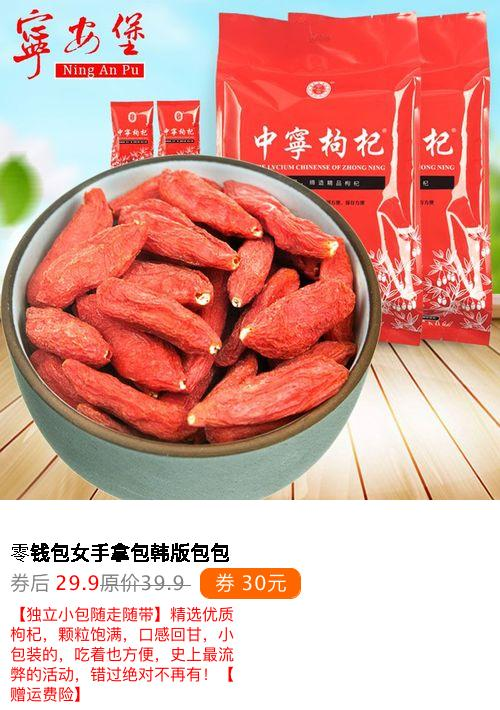
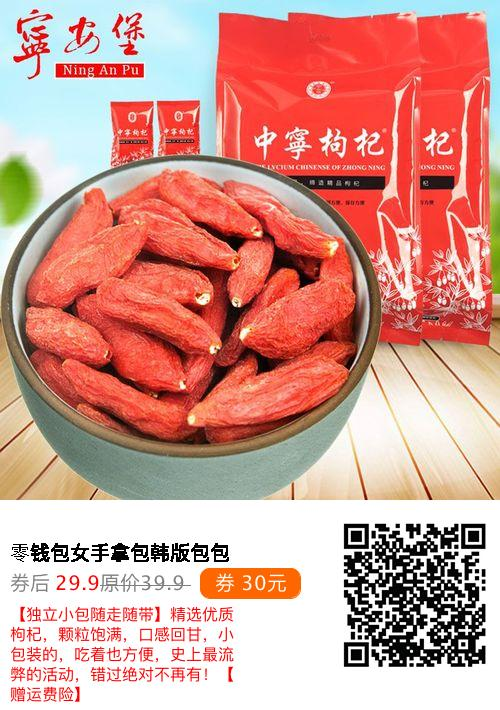
添加二维码

Changed region(s): [[0.66, 0.7127, 0.99, 0.9606]]

diff --git a/src/com/dongge416/collect/WeiXinApp.java b/src/com/dongge416/collect/WeiXinApp.java
@@ -24,11 +24,14 @@ public class WeiXinApp {
 		System.out.println(rawPath);
 		InputStream imagein = new FileInputStream(rawPath+"/Raw/target.jpg");  
         InputStream imagein2 = new FileInputStream(rawPath+"/Raw/bg.jpg");
+        InputStream imageInQrcode = new FileInputStream(rawPath+"/Raw/qrcode.jpg");
         BufferedImage image = ImageIO.read(imagein);  
         BufferedImage image2 = ImageIO.read(imagein2);  
+        BufferedImage imageQrcode = ImageIO.read(imageInQrcode);  
         Graphics2D g = (Graphics2D)image2.getGraphics();  
         g.drawImage(image, 0, 0,  
         		image.getWidth() , image.getHeight() , null);  
+        g.drawImage(imageQrcode, image2.getWidth()-160, image.getHeight()+20, 150, 150, null); 
 //        g.setRenderingHint(hintKey, hintValue);
         Font fontTitle = new Font("黑体",Font.PLAIN,20);
         g.setFont(fontTitle); 
